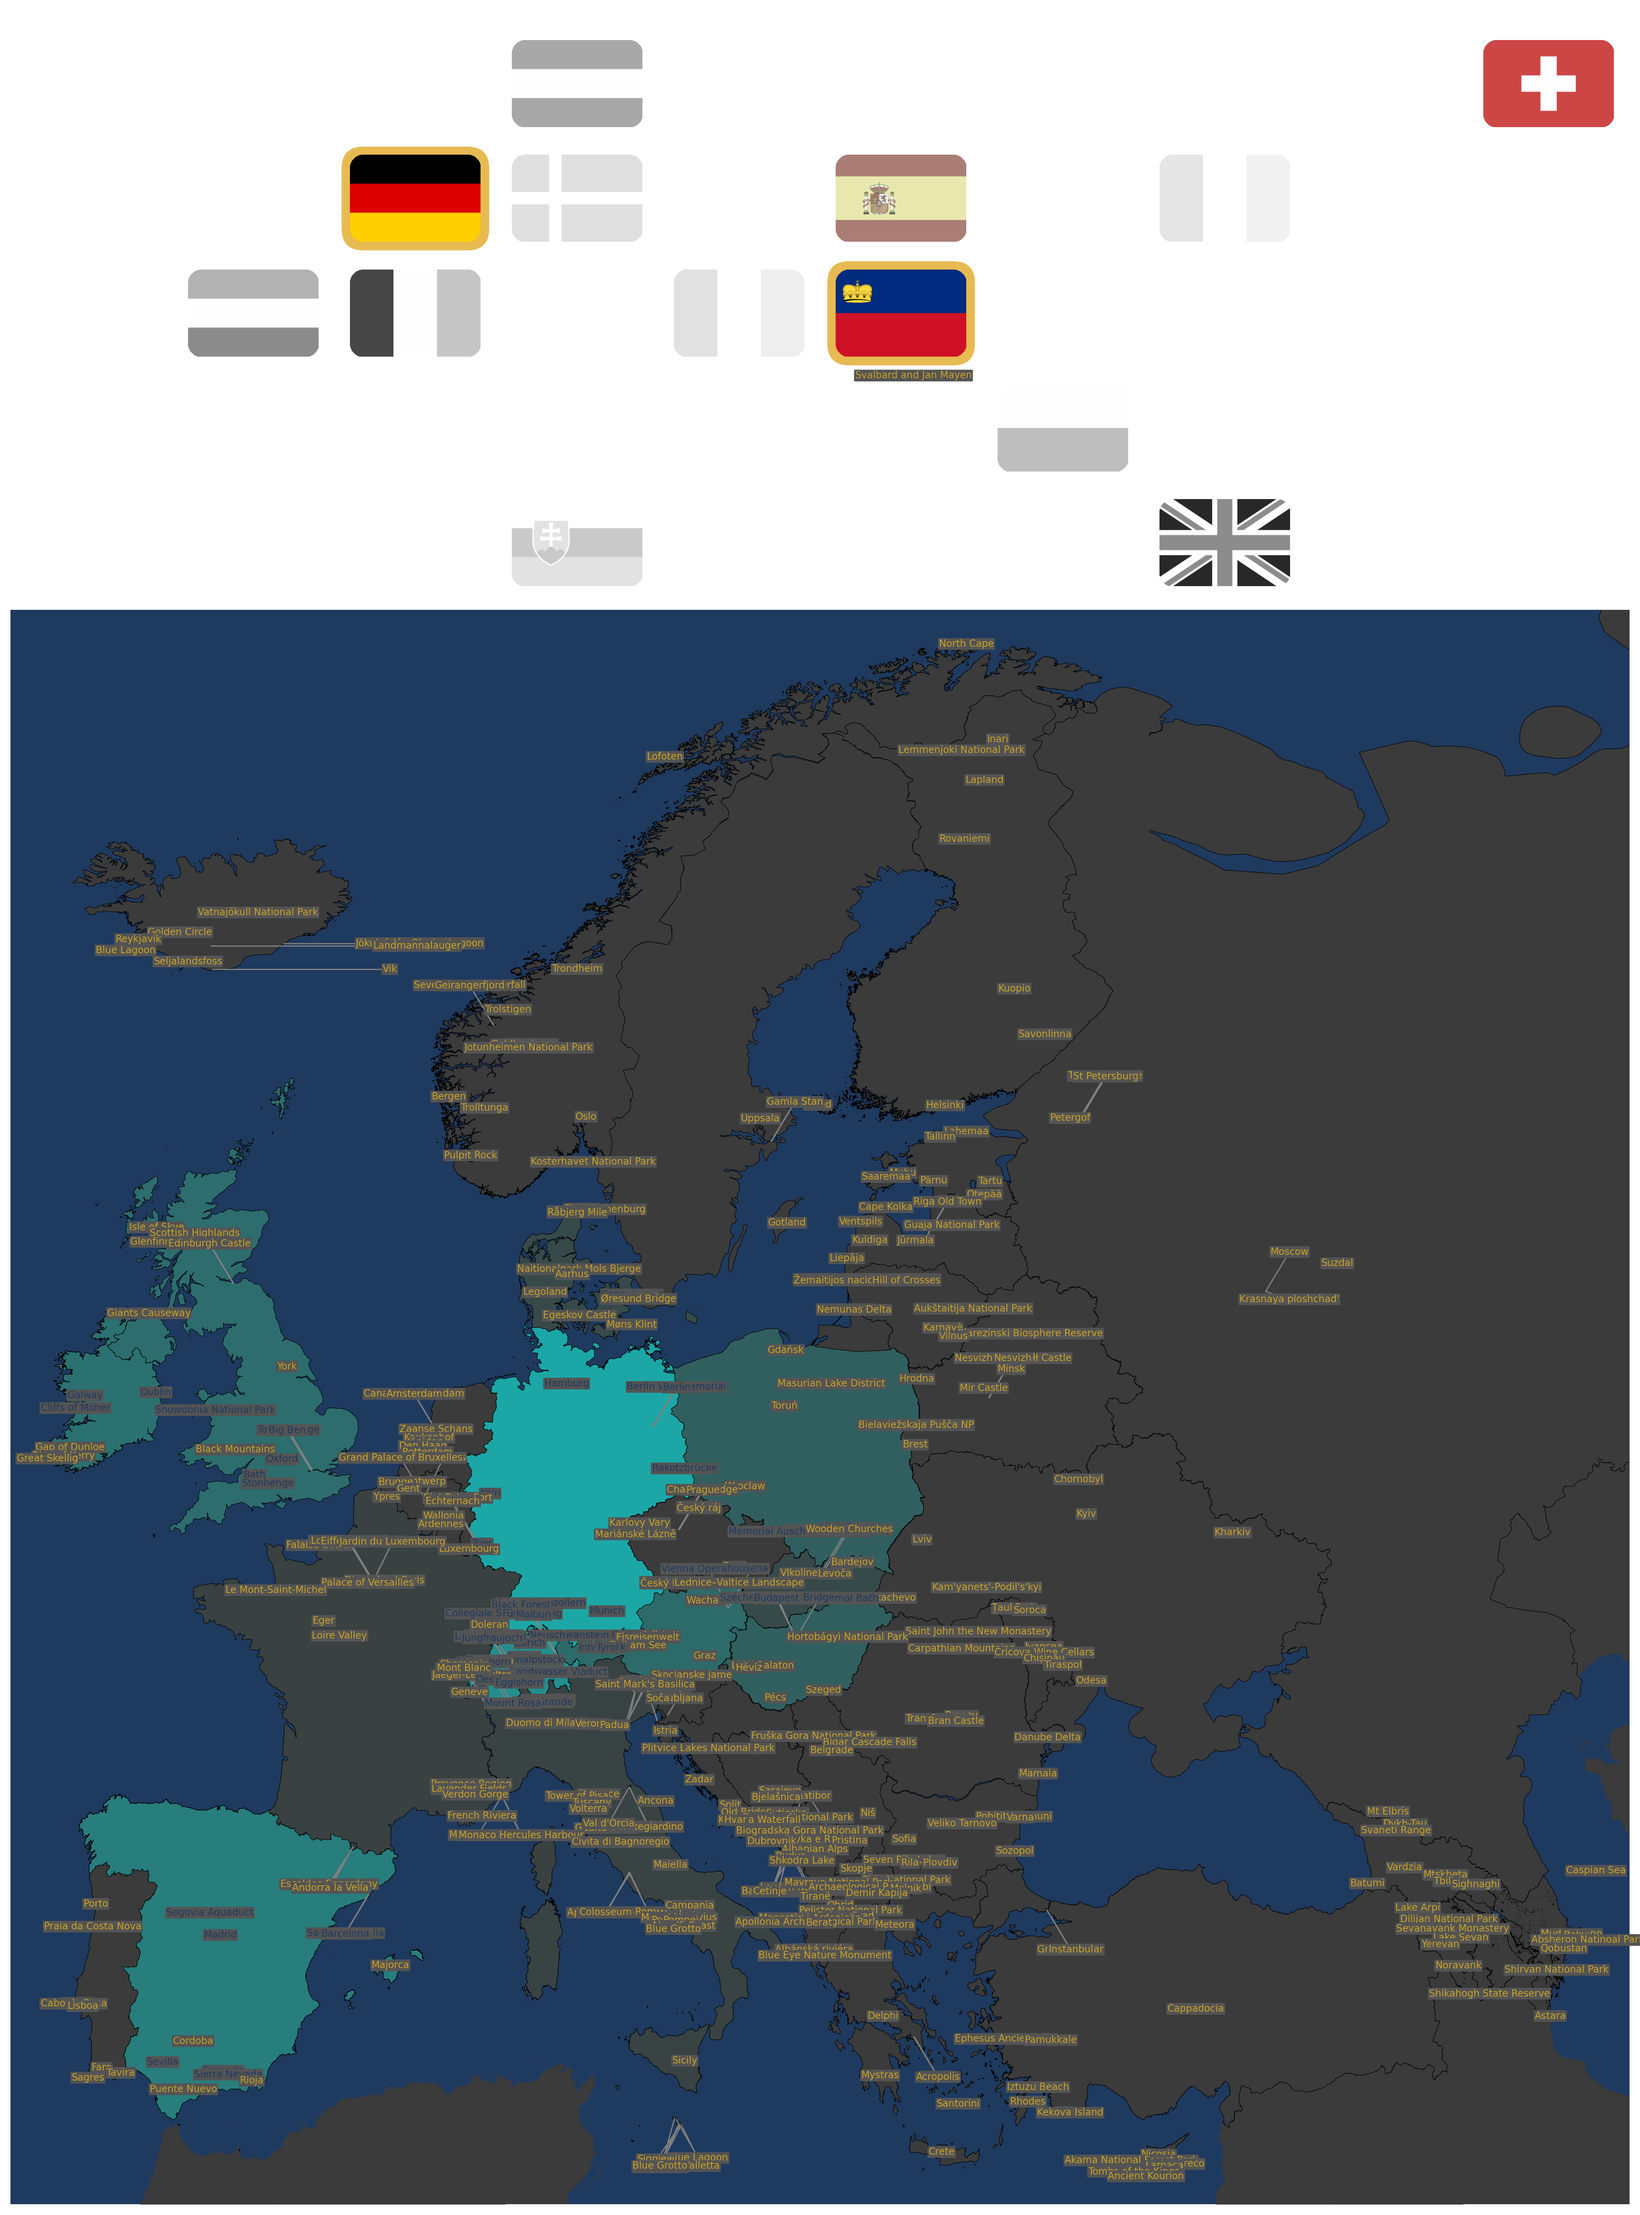
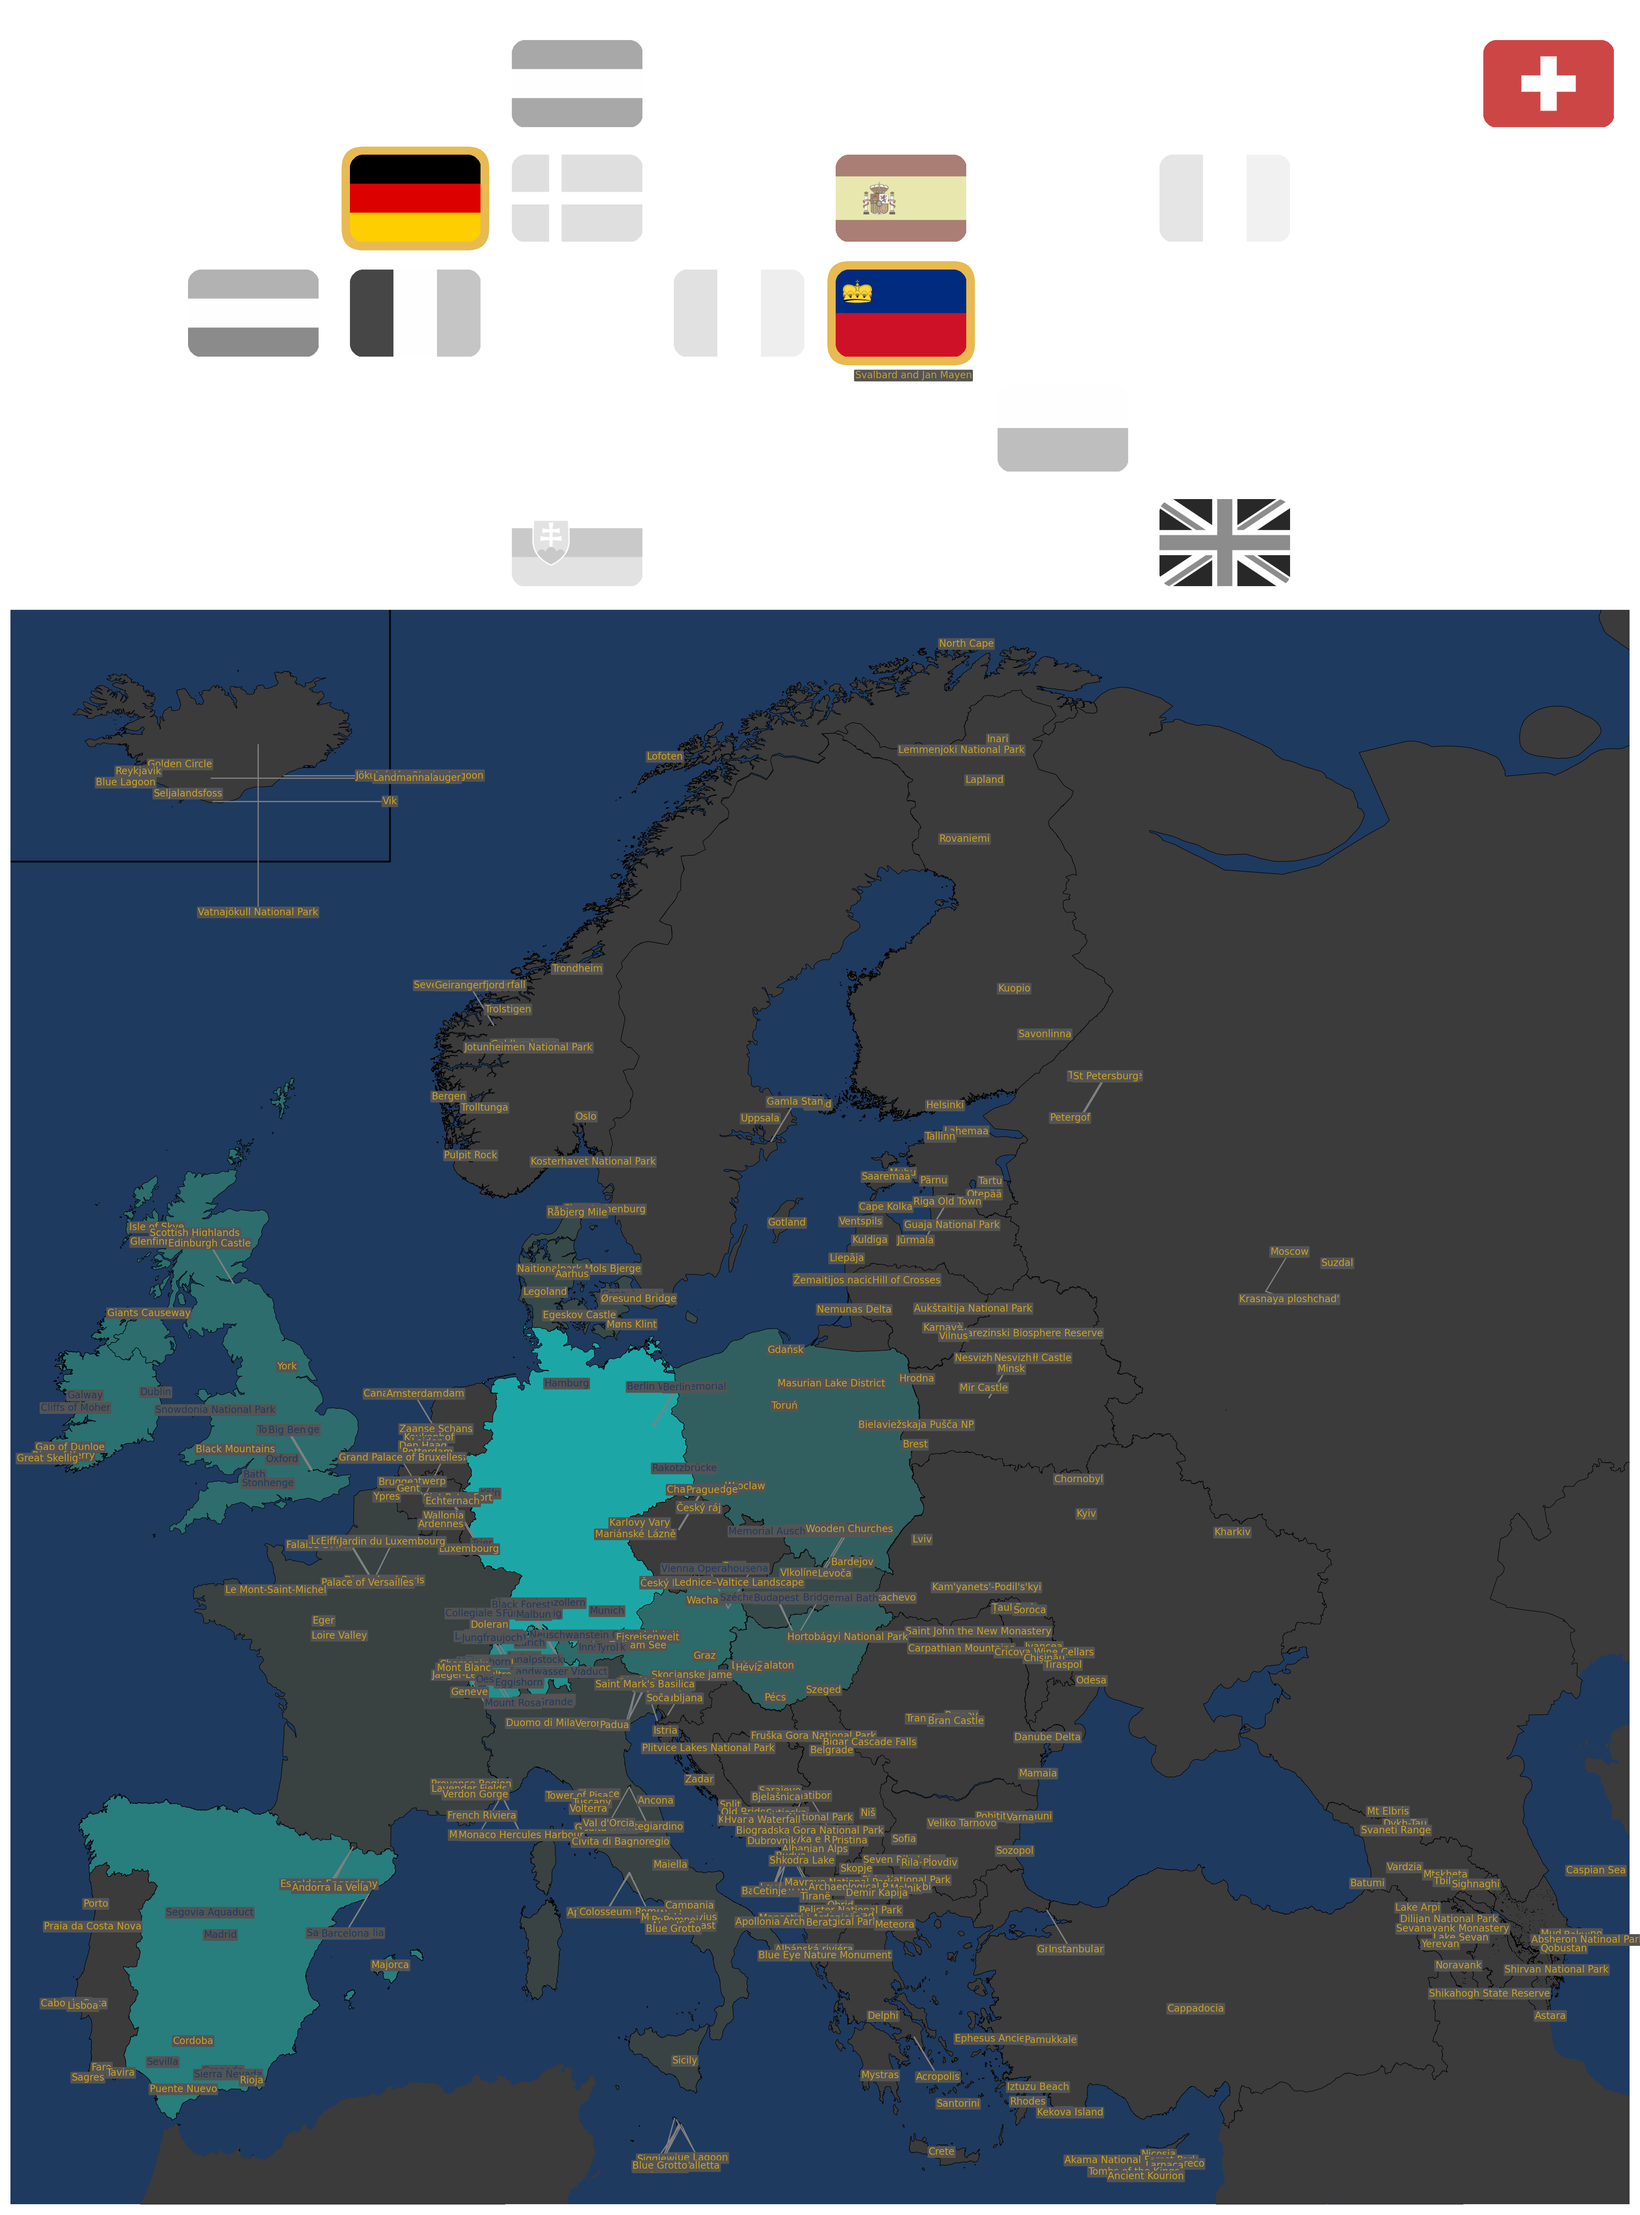
update eu bg areas

Changed region(s): [[0.0312, 0.2802, 0.2809, 0.4358], [0.2185, 0.3425, 0.2809, 0.3736]]

diff --git a/plotting/plotting_manager.py b/plotting/plotting_manager.py
@@ -106,7 +106,7 @@ class PlotManager:
         for submap in self.submaps:
 
             # Plot Backing to Shifted Submaps
-            if submap["Shift"][0] != 0 and submap["Shift"][1] != 0:
+            if submap["Shift"][0] != 0 or submap["Shift"][1] != 0:
             # If list is [[lon, lat], ...]
                 coords = [(p[0], p[1]) for p in submap["BG"]]
 
